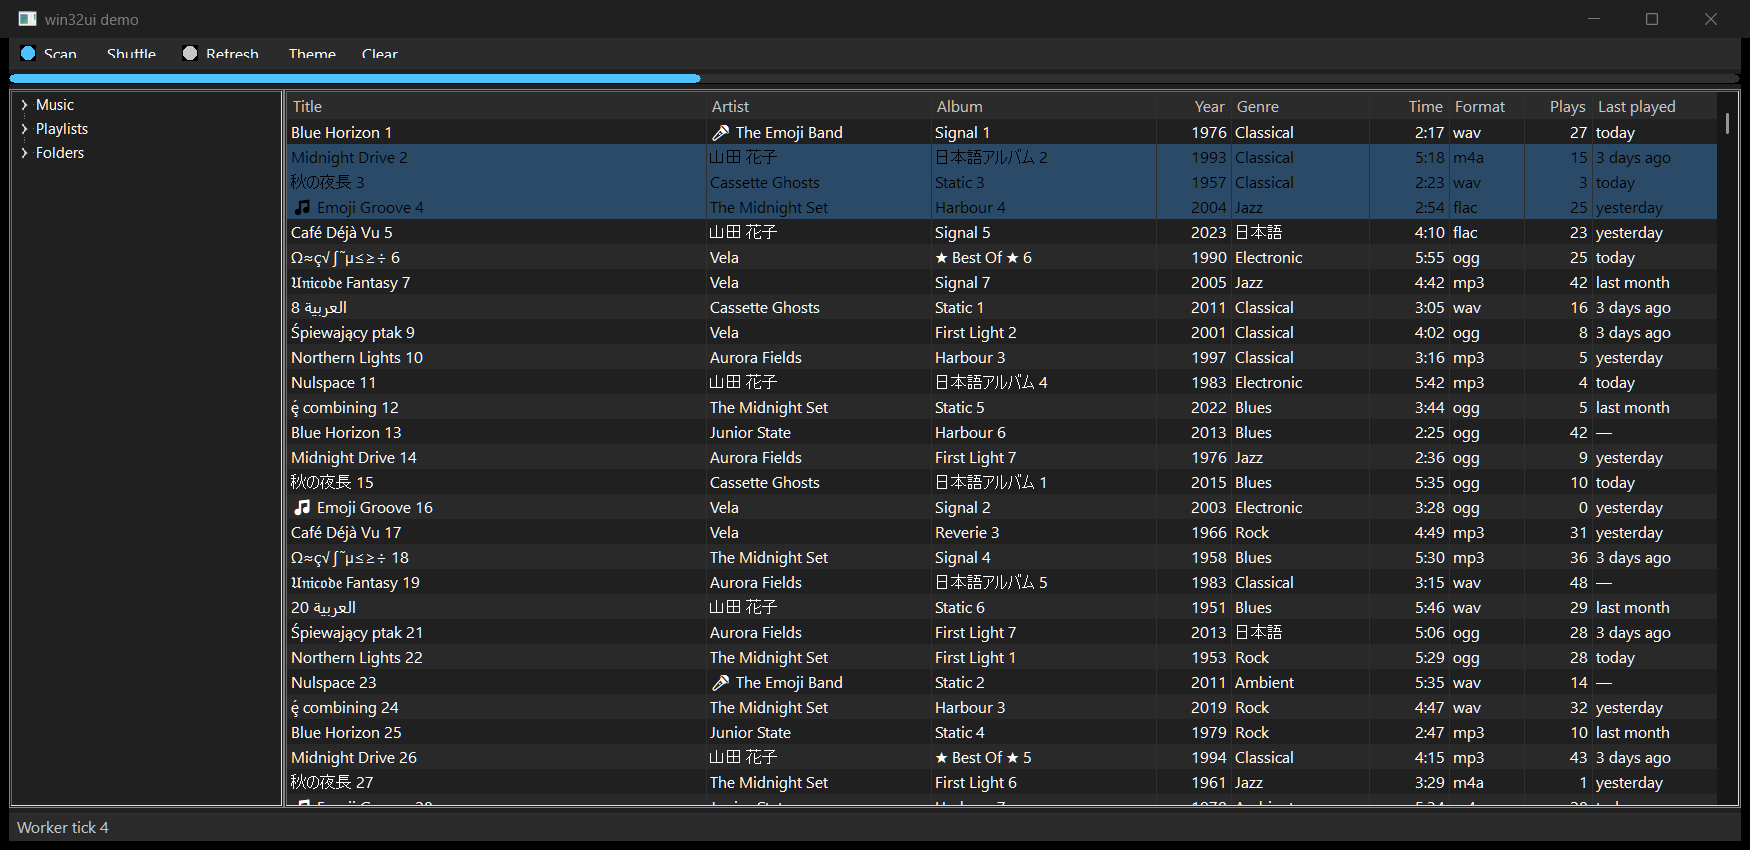
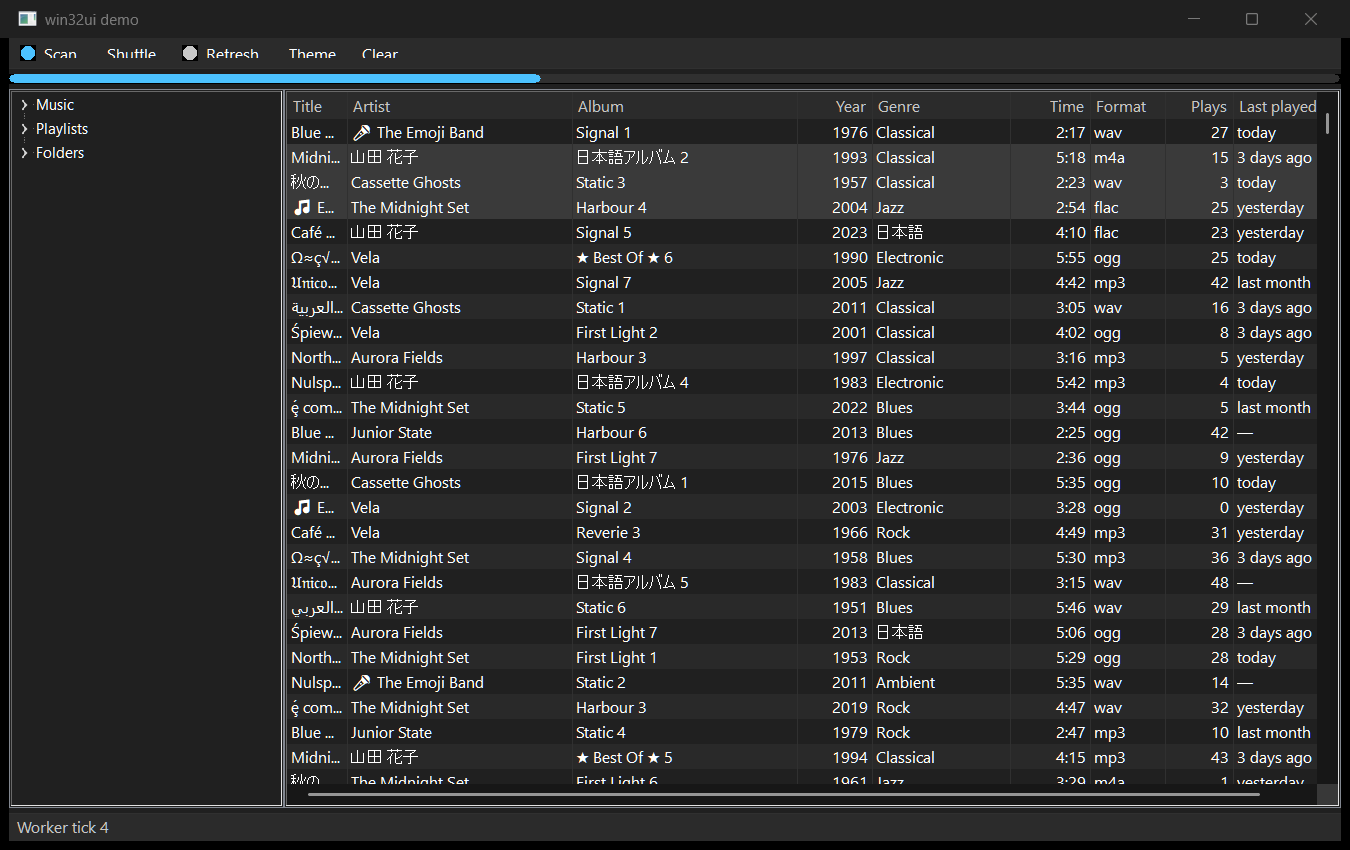
Readable selected-row text in both themes (#19)
Selected rows kept the playing/accent text colour on the selection
background (white on pale blue, black on navy). They now keep the normal
text colour and only swap the background - focused selection while the
list has focus, unfocused grey otherwise - matching Explorer. Adds a pure
row_colors decision on ListViewTheme with a >= 4.5 contrast unit test for
both themes and both focus states, plus WCAG helpers on Color.

Closes #19

diff --git a/src/controls/listview/theme.rs b/src/controls/listview/theme.rs
@@ -13,8 +13,10 @@ pub struct ListViewTheme {
     pub alternate: crate::Color,
     /// Normal cell text.
     pub text: crate::Color,
-    /// Selected-row background.
+    /// Selected-row background while the list has focus.
     pub selection: crate::Color,
+    /// Selected-row background while the list does not have focus.
+    pub selection_unfocused: crate::Color,
     /// Background of the currently playing row.
     pub playing: crate::Color,
     /// Text colour on the playing/selected row.
@@ -29,21 +31,57 @@ pub struct ListViewTheme {
 
 impl ListViewTheme {
     /// Derives a list palette from the app [`Theme`]: a subtle two-shade
-    /// zebra from `background`/`text`, the theme's focused selection (and
-    /// accent text on top) for playing/selected rows, and thin column
-    /// separators. Override any field after calling this for a custom look.
+    /// zebra from `background`/`text`, the theme's focused and unfocused
+    /// selections for selected rows, and the accent (with text on top) for
+    /// the playing row, plus thin column separators. Override any field
+    /// after calling this for a custom look.
     pub fn from_theme(theme: &Theme) -> ListViewTheme {
         ListViewTheme {
             background: theme.background,
             alternate: theme.background.lerp(theme.text, 0.04),
             text: theme.text,
             selection: theme.selection,
+            selection_unfocused: theme.selection_unfocused,
             playing: theme.accent,
             on_playing: theme.text_on_accent,
             border: theme.border,
             header_background: theme.surface,
             header_text: theme.text_secondary,
         }
+    }
+
+    /// The `(background, text)` colours for one row. Pure, so the contrast
+    /// guarantees below are unit-tested rather than eyeballed.
+    ///
+    /// The playing row wins over selection and is the only state that swaps
+    /// the text colour. A selected row keeps the normal text colour and only
+    /// swaps its background — `selection` while the list has focus, else
+    /// `selection_unfocused` — matching Explorer, where selection never
+    /// re-tints the text.
+    pub fn row_colors(
+        &self,
+        selected: bool,
+        focused: bool,
+        playing: bool,
+        striped: bool,
+    ) -> (crate::Color, crate::Color) {
+        if playing {
+            return (self.playing, self.on_playing);
+        }
+        if selected {
+            let background = if focused {
+                self.selection
+            } else {
+                self.selection_unfocused
+            };
+            return (background, self.text);
+        }
+        let background = if striped {
+            self.alternate
+        } else {
+            self.background
+        };
+        (background, self.text)
     }
 }
 
@@ -58,10 +96,40 @@ mod tests {
             let derived = ListViewTheme::from_theme(&theme);
             assert_eq!(derived.background, theme.background);
             assert_eq!(derived.selection, theme.selection);
+            assert_eq!(derived.selection_unfocused, theme.selection_unfocused);
             assert_eq!(derived.playing, theme.accent);
             assert_eq!(derived.on_playing, theme.text_on_accent);
             assert_eq!(derived.border, theme.border);
             assert_eq!(derived.header_background, theme.surface);
+        }
+    }
+
+    /// Every row state keeps body-text contrast (`>= 4.5`): selected rows in
+    /// particular keep the normal text colour, which is what makes them
+    /// readable on both selection backgrounds.
+    #[test]
+    fn row_text_stays_readable_in_every_state() {
+        for theme in [Theme::light(), Theme::dark()] {
+            let palette = ListViewTheme::from_theme(&theme);
+            for focused in [true, false] {
+                let (background, text) = palette.row_colors(true, focused, false, false);
+                assert!(
+                    text.contrast_ratio(background) >= 4.5,
+                    "selected text unreadable (focused={focused}, {theme:?})",
+                );
+            }
+            for striped in [true, false] {
+                let (background, text) = palette.row_colors(false, true, false, striped);
+                assert!(
+                    text.contrast_ratio(background) >= 4.5,
+                    "plain text unreadable (striped={striped}, {theme:?})",
+                );
+            }
+            let (background, text) = palette.row_colors(false, true, true, false);
+            assert!(
+                text.contrast_ratio(background) >= 4.5,
+                "playing text unreadable ({theme:?})",
+            );
         }
     }
 }

diff --git a/src/color.rs b/src/color.rs
@@ -51,6 +51,30 @@ impl Color {
             b: mix(self.b, other.b),
         }
     }
+
+    /// Relative luminance (`0.0` black .. `1.0` white), per WCAG 2.x.
+    pub fn luminance(self) -> f32 {
+        fn channel(value: u8) -> f32 {
+            let s = value as f32 / 255.0;
+            if s <= 0.04045 {
+                s / 12.92
+            } else {
+                ((s + 0.055) / 1.055).powf(2.4)
+            }
+        }
+        0.2126 * channel(self.r) + 0.7152 * channel(self.g) + 0.0722 * channel(self.b)
+    }
+
+    /// WCAG contrast ratio of `self` (as text) over `background`
+    /// (`1.0` .. `21.0`; body text wants at least `4.5`).
+    pub fn contrast_ratio(self, background: Color) -> f32 {
+        let (lighter, darker) = if self.luminance() >= background.luminance() {
+            (self.luminance(), background.luminance())
+        } else {
+            (background.luminance(), self.luminance())
+        };
+        (lighter + 0.05) / (darker + 0.05)
+    }
 }
 
 #[cfg(test)]
@@ -70,5 +94,15 @@ mod tests {
         assert_eq!(black.lerp(white, 0.0), black);
         assert_eq!(black.lerp(white, 1.0), white);
         assert_eq!(black.lerp(white, 0.5), Color::rgb(128, 128, 128));
+    }
+
+    #[test]
+    fn contrast_endpoints() {
+        let black = Color::rgb(0, 0, 0);
+        let white = Color::rgb(255, 255, 255);
+        assert!((black.luminance() - 0.0).abs() < 1e-6);
+        assert!((white.luminance() - 1.0).abs() < 1e-6);
+        assert!((black.contrast_ratio(white) - 21.0).abs() < 0.01);
+        assert!((white.contrast_ratio(white) - 1.0).abs() < 1e-6);
     }
 }

diff --git a/src/controls/listview/draw.rs b/src/controls/listview/draw.rs
@@ -129,22 +129,17 @@ impl<T> ListViewInner<T> {
 
         let selected = sys::listview::lv_is_selected(hwnd, item);
         let playing = self.playing == Some(item as usize);
-        let highlight = playing || selected;
-        let background = if highlight {
-            self.theme.selection
-        } else if item % 2 == 1 {
-            self.theme.alternate
-        } else {
-            self.theme.background
-        };
-        let text_color = if highlight {
-            self.theme.on_playing
-        } else {
-            self.theme.text
-        };
+        let focused = sys::listview::lv_has_focus(hwnd);
+        // Explorer keeps the normal text colour on selection and only swaps
+        // the background (focused blue, unfocused grey); only the playing
+        // row swaps the text too. See `ListViewTheme::row_colors`.
+        let (background, text_color) =
+            self.theme
+                .row_colors(selected, focused, playing, item % 2 == 1);
 
         // Paint the row ourselves: this is a real owner-drawn list, which also
-        // lets us suppress the system's (focus-dependent) selection colour.
+        // lets us pick the focused/unfocused selection background ourselves
+        // instead of taking the system's focus-dependent default.
         let canvas = Canvas::new(ctx.hdc);
         canvas.fill_rect(row, background);
         canvas.with_font(&self.font, |canvas| {

diff --git a/src/sys/listview.rs b/src/sys/listview.rs
@@ -10,6 +10,7 @@ use windows::Win32::UI::Controls::{
     LVM_SETITEMSTATE, LVM_SETTEXTBKCOLOR, LVM_SETTEXTCOLOR, LVNI_FOCUSED, LVNI_SELECTED,
     LVS_SINGLESEL, LVSICF_NOSCROLL, NMLVCUSTOMDRAW, NMLVDISPINFOW,
 };
+use windows::Win32::UI::Input::KeyboardAndMouse::GetFocus;
 use windows::Win32::UI::WindowsAndMessaging::{GWL_STYLE, GetWindowLongW, SetWindowLongW};
 use windows::core::PWSTR;
 
@@ -223,6 +224,15 @@ pub(crate) fn lv_is_selected(hwnd: Hwnd, item: i32) -> bool {
         LVIS_SELECTED.0 as isize,
     ) as u32;
     state & LVIS_SELECTED.0 != 0
+}
+
+/// Whether the list view itself has the keyboard focus. The owner-drawn
+/// selection follows it: the focused `selection` background while focused,
+/// the grey `selection_unfocused` one otherwise (Explorer behaviour).
+pub(crate) fn lv_has_focus(hwnd: Hwnd) -> bool {
+    // SAFETY: `GetFocus` takes no arguments and only returns the calling
+    // thread's focused window (or null); comparing handles touches nothing.
+    unsafe { hwnd_from(GetFocus()) == hwnd }
 }
 
 /// The list view's header control.
